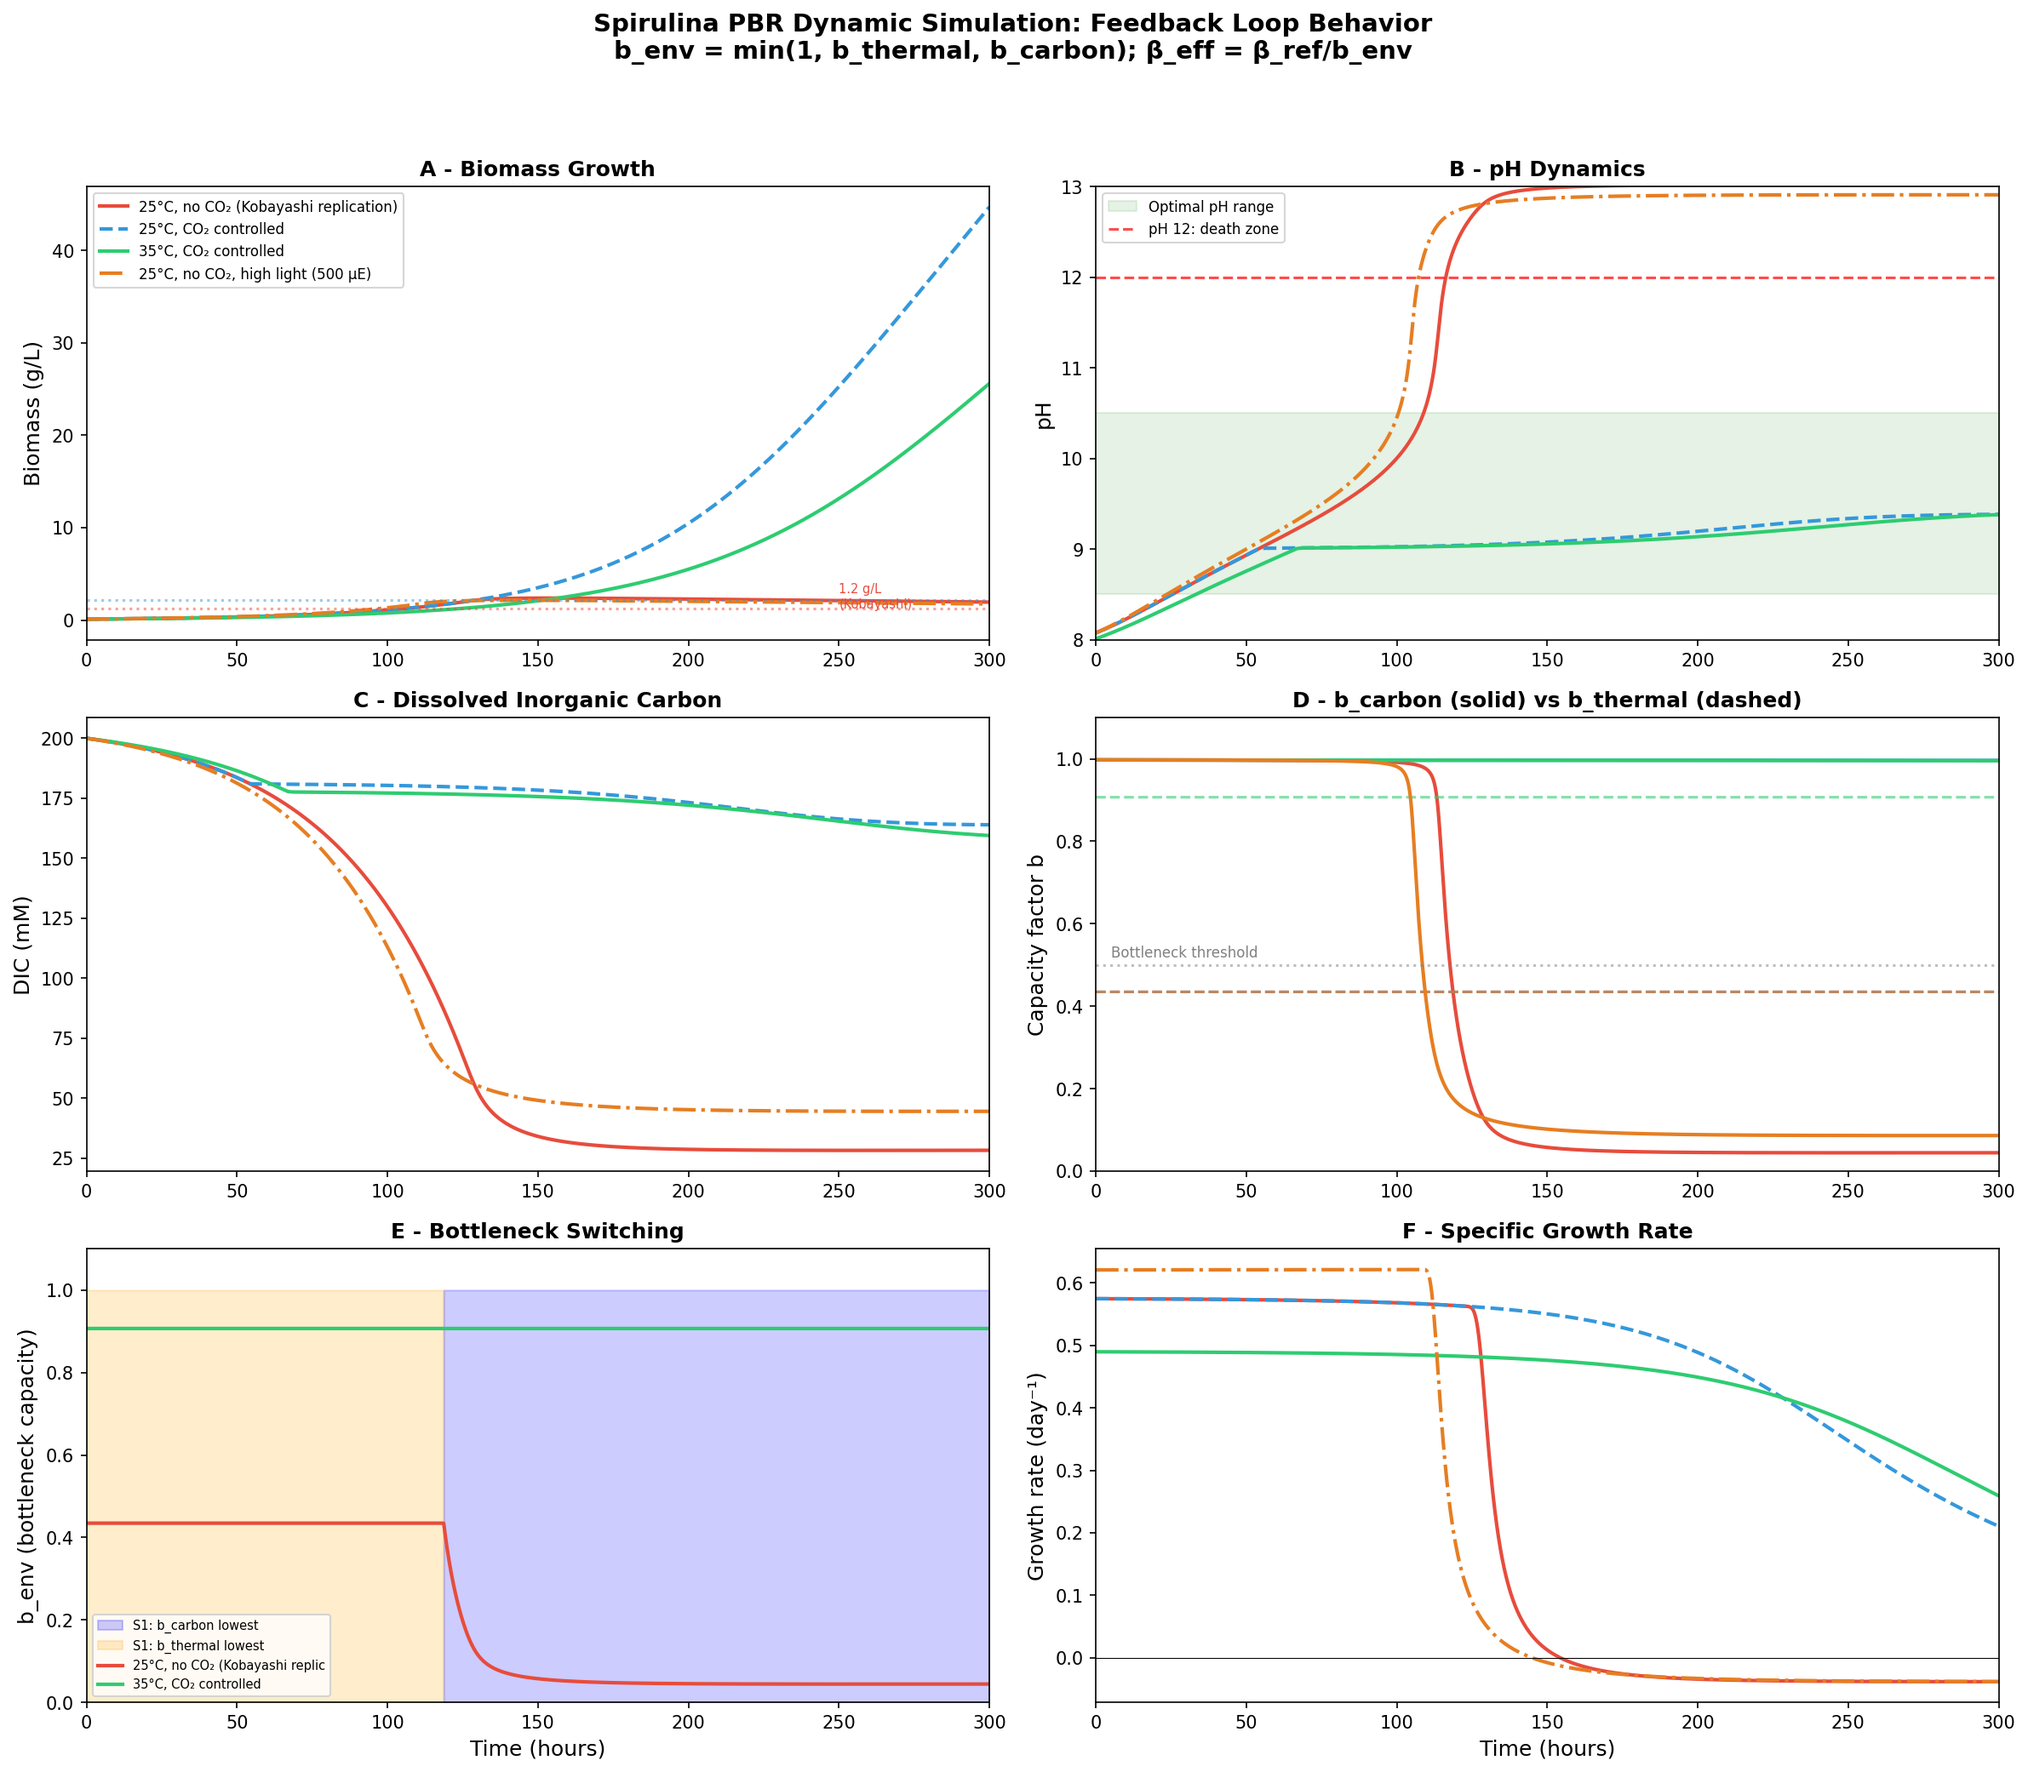
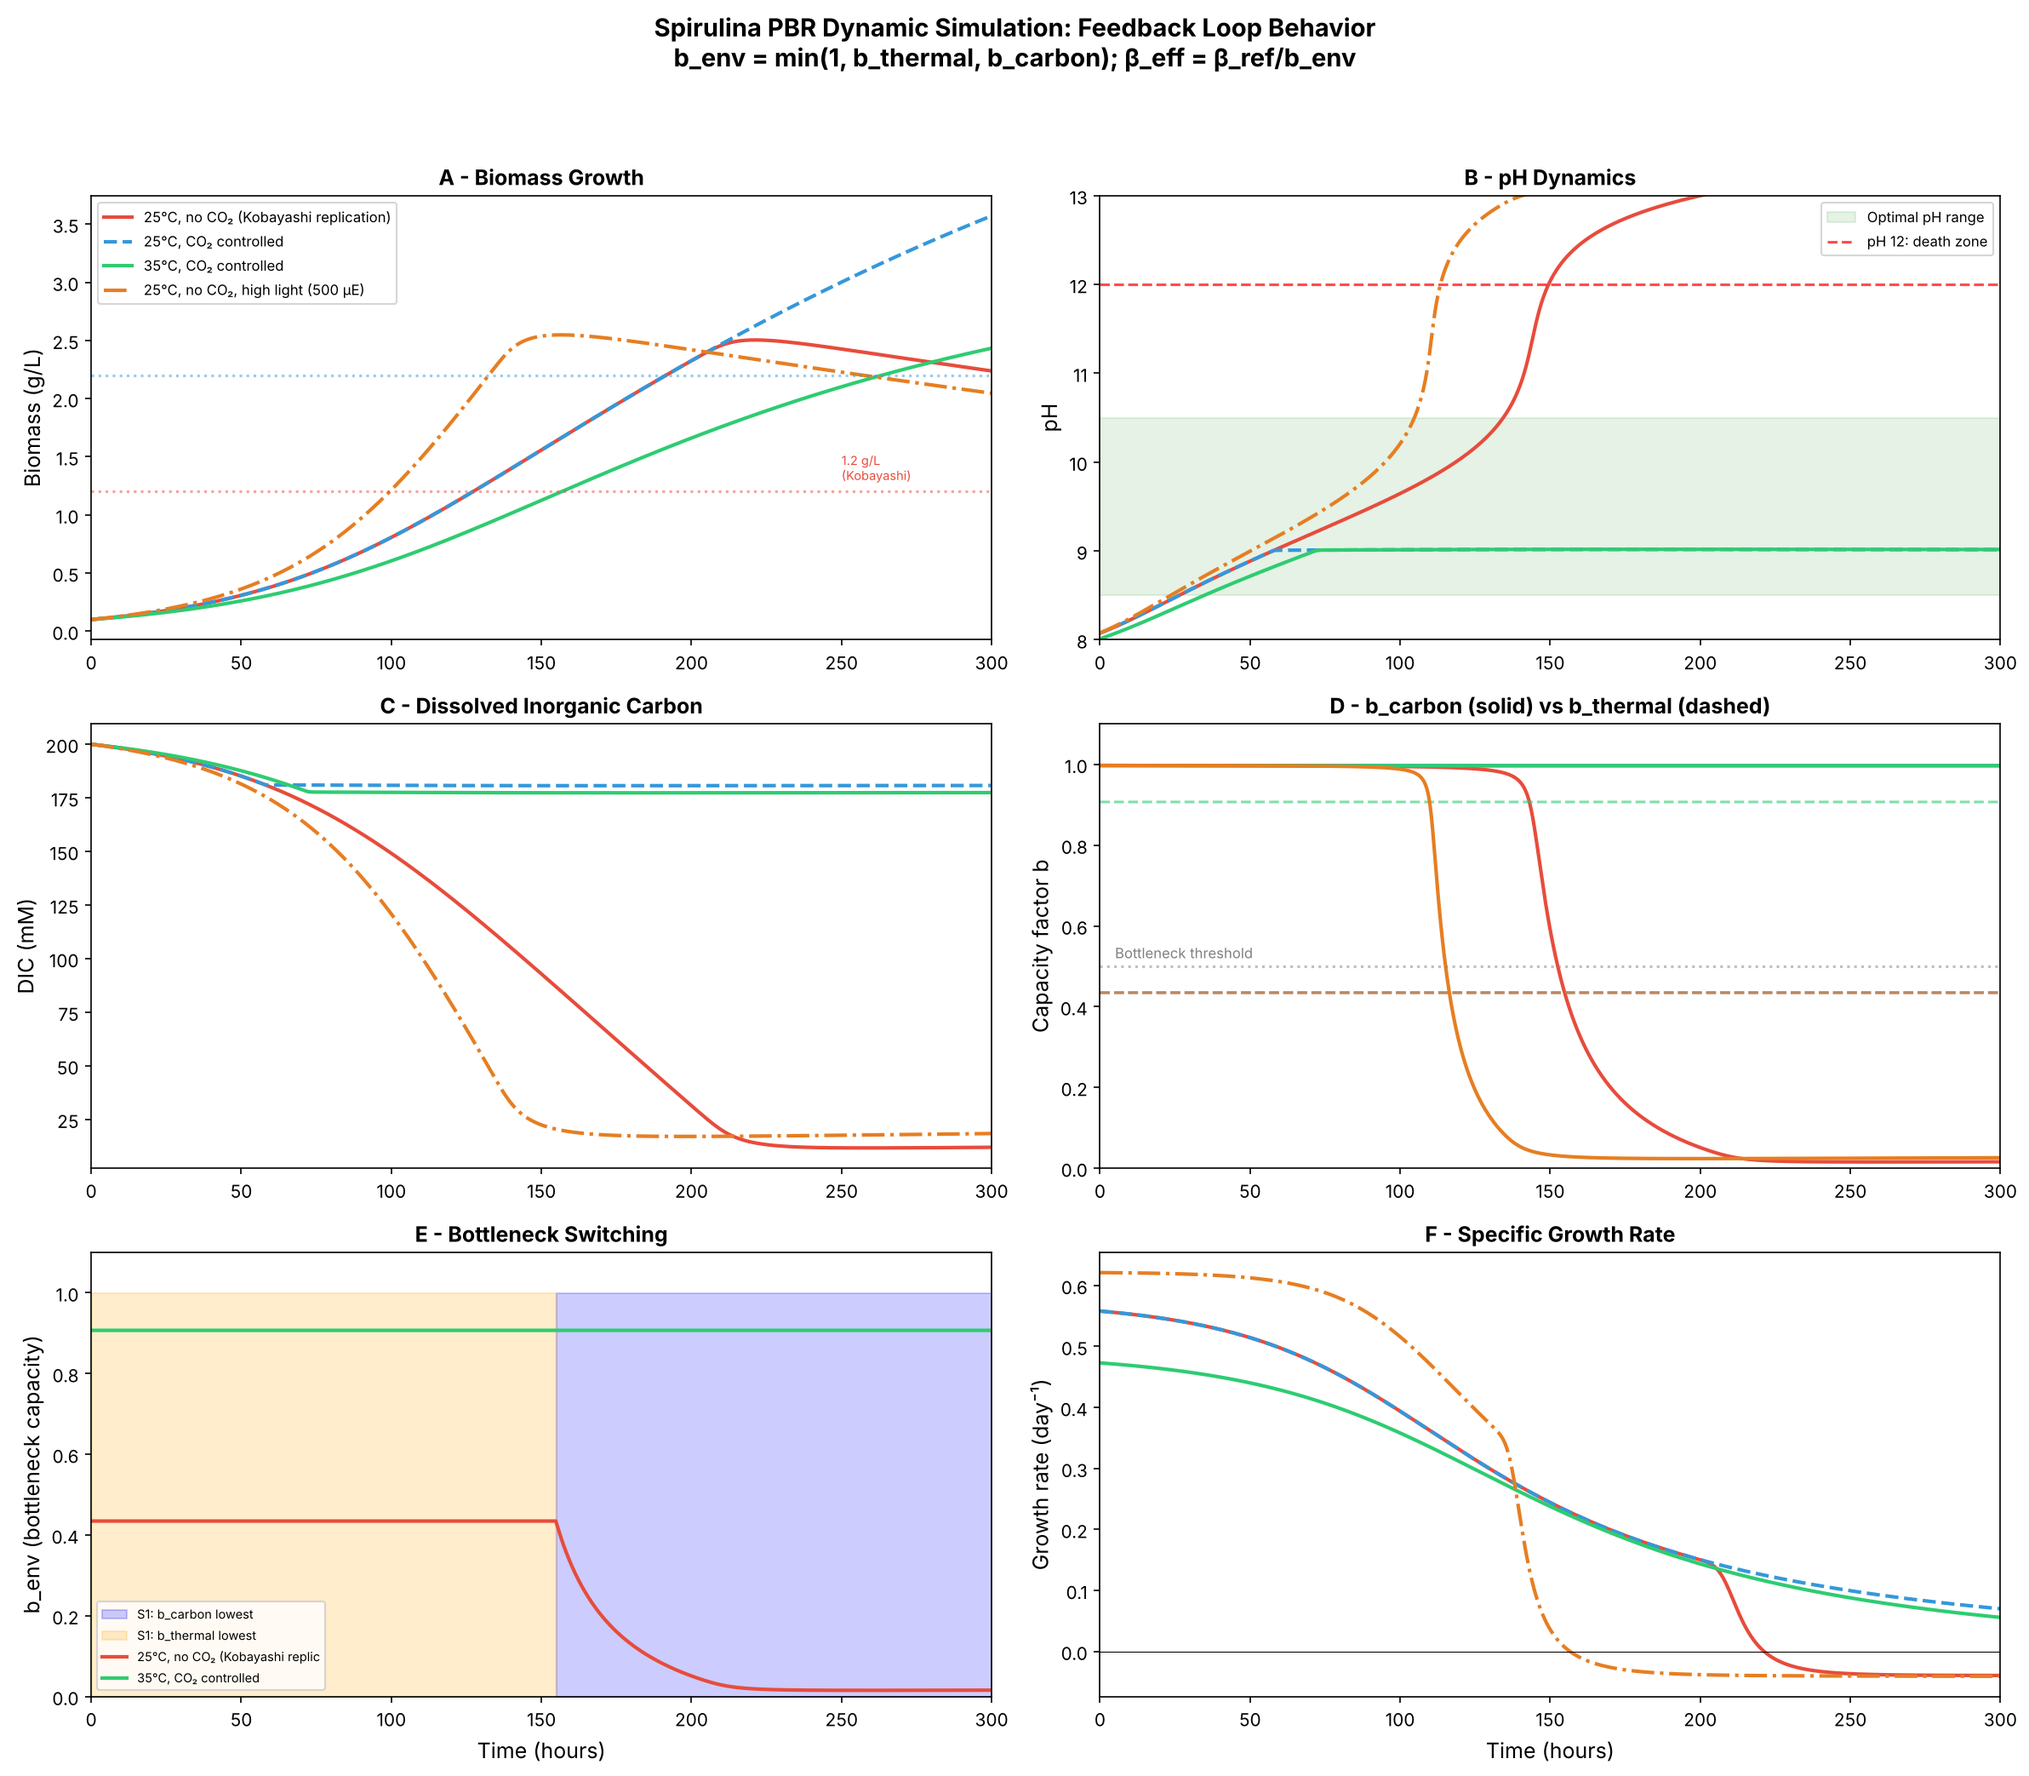
PBR: extinction coefficient 0.02 -> 0.5 L/g/cm (order of measured Arthrospira absorption); regenerate Fig 8 and summary

diff --git a/soba2/pbr_dynamics.py b/soba2/pbr_dynamics.py
@@ -155,7 +155,7 @@ base_params = {
     'Pmax_opt': 2.0,         # mM C / g biomass / h
     'Ik': 150.0,             # µmol/m²/s (light saturation, = Pmax / alpha)
     'S_ref': S_REF,          # alpha / beta_ref
-    'k_ext': 0.02,           # L/g/cm (extinction coefficient)
+    'k_ext': 0.5,            # L/g/cm (extinction coefficient; order of measured Spirulina absorption)
     'path_length': 4.0,      # cm (tube diameter)
     'thermal': dict(THERMAL_DEFAULT),
     'Km_mM': KM_EFF_MM,
